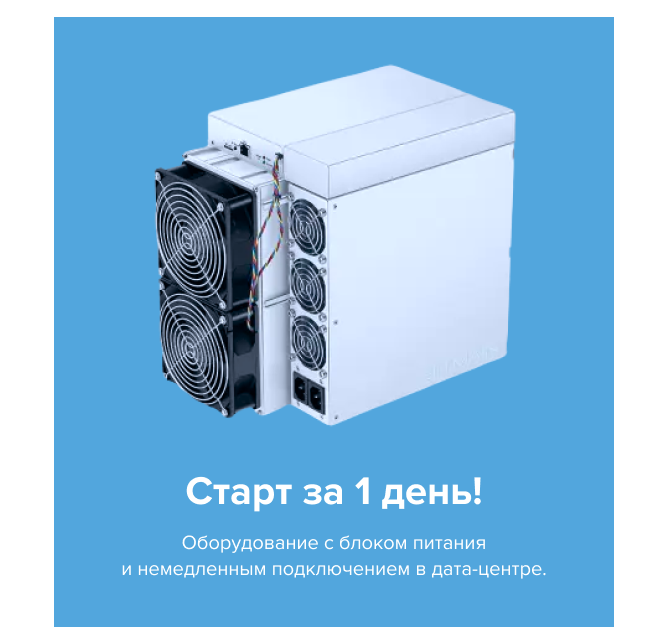
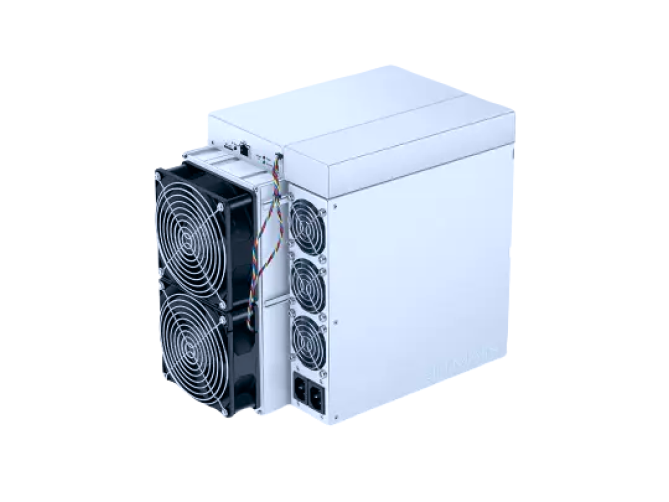
add offer section in equipment page

diff --git a/src/equipment.html b/src/equipment.html
@@ -136,7 +136,41 @@
         </div>
       </section>
 
-      <section class="equipment-page__offer"></section>
+      <section class="equipment-page__offer equipment-offer">
+        <div class="equipment-offer__container">
+          <div class="equipment-offer__box">
+            <div class="equipment-offer__content">
+              <h2 class="equipment-offer__title">Специальное предложение</h2>
+              <p class="equipment-offer__text text text_big">Компания BitRiver предлагает готовое решение по реализации
+                нового
+                уже подключённого оборудования, а также пакет услуг по его обслуживанию. </p>
+              <p class="equipment-offer__text text text_big">
+                В стоимость обслуживания включено:
+              </p>
+              <ul class="equipment-offer__list">
+                <li class="equipment-offer__item text text_big">Прямое подключение к узловой подстанции</li>
+                <li class="equipment-offer__item text text_big">Подключение к Интернету: 2 оптоволоконных канала</li>
+                <li class="equipment-offer__item text text_big">Система испарительного охлаждения, рециркуляции и
+                  фильтрации</li>
+                <li class="equipment-offer__item text text_big">Видеонаблюдение, посты внутренней и внешней вооруженной
+                  охраны 24/7</li>
+                <li class="equipment-offer__item text text_big">Мониторинг, диагностика и ремонт оборудования</li>
+                <li class="equipment-offer__item text text_big">Круглосуточная техническая и клиентская поддержка</li>
+              </ul>
+              <a href="./files/price.pdf" download class="equipment-offer__action button button_filled">ПОЛУЧИТЬ
+                ПРАЙС-ЛИСТ</a>
+            </div>
+            <div class="equipment-offer__start">
+              <div class="equipment-offer__image-ibg">
+                <img src="img/equipment/3.png" alt="miner">
+              </div>
+              <h3 class="equipment-offer__subtitle">Старт за 1 день!</h3>
+              <p class="equipment-offer__desc">Оборудование с блоком питания и немедленным подключением в дата-центре.
+              </p>
+            </div>
+          </div>
+        </div>
+      </section>
 
     </main>
     @@include('html/_footer.htm',{})

diff --git a/src/scss/equipment.scss b/src/scss/equipment.scss
@@ -264,6 +264,9 @@
       margin-top: 15px;
       & .form__error {
         transform: translate(25px, 100%);
+        @media (max-width: $mobileSmall) {
+          transform: translate(0px, 100%);
+        }
       }
     }
     &_button {
@@ -297,11 +300,88 @@
   }
 }
 
-.checkbox {
-  &__input {
+.equipment-offer {
+  padding: 60px 0;
+  background: #fff;
+  @media (max-width: $mobile) {
+    padding: 40px 0;
   }
-  &__label {
+  &__box {
+    display: flex;
+    justify-content: space-between;
+    align-items: start;
+    @media (max-width: $mobile) {
+      flex-direction: column;
+    }
+  }
+  &__content {
+    flex: 0 1 calc(470 / 1180 * 100%);
+    margin-right: 20px;
+    color: $bgColor;
+    @media (max-width: $mobile) {
+      margin-right: 0;
+      margin-bottom: 30px;
+    }
+  }
+  &__title {
+    margin-bottom: 30px;
+    font-size: 40px;
+    line-height: math.div(52, 40);
+    font-weight: 700;
+    color: $blueColor;
+    @media (max-width: $mobileSmall) {
+      font-size: 24px;
+      margin-bottom: 20px;
+    }
   }
   &__text {
+    &:nth-child(2) {
+      margin-bottom: 30px;
+      @media (max-width: $mobileSmall) {
+        margin-bottom: 20px;
+      }
+    }
+  }
+  &__list {
+    margin-bottom: 30px;
+    padding-left: 15px;
+  }
+  &__item {
+    list-style: disc;
+    &::marker {
+      font-size: 12px;
+    }
+  }
+  &__action {
+  }
+  &__start {
+    padding: 60px 45px;
+    background: $blueColor;
+    flex: 0 1 calc(560 / 1180 * 100%);
+    text-align: center;
+    @media (max-width: $mobile) {
+      padding: 20px;
+    }
+  }
+  &__image-ibg {
+    padding-bottom: percent(500, 670);
+  }
+  &__subtitle {
+    margin-bottom: 25px;
+    font-size: 40px;
+    line-height: math.div(40, 40);
+    font-weight: 700;
+    color: #fff;
+    @media (max-width: $mobileSmall) {
+      font-size: 24px;
+    }
+  }
+  &__desc {
+    font-size: 20px;
+    line-height: math.div(26, 20);
+    color: #fff;
+    @media (max-width: $mobileSmall) {
+      font-size: 16px;
+    }
   }
 }

diff --git a/src/scss/style.scss b/src/scss/style.scss
@@ -222,6 +222,11 @@ body {
     font-size: 14px;
     line-height: math.div(17, 14);
   }
+
+  &_big {
+    font-size: 17px;
+    line-height: math.div(26, 17);
+  }
   @media (max-width: $mobileSmall) {
     font-size: 14px;
   }

diff --git a/src/scss/base/forms/button.scss b/src/scss/base/forms/button.scss
@@ -13,6 +13,7 @@
     padding: 8px 17px;
   }
   &_filled {
+    color: #fff;
     background: $accentColor;
   }
   &_min {
